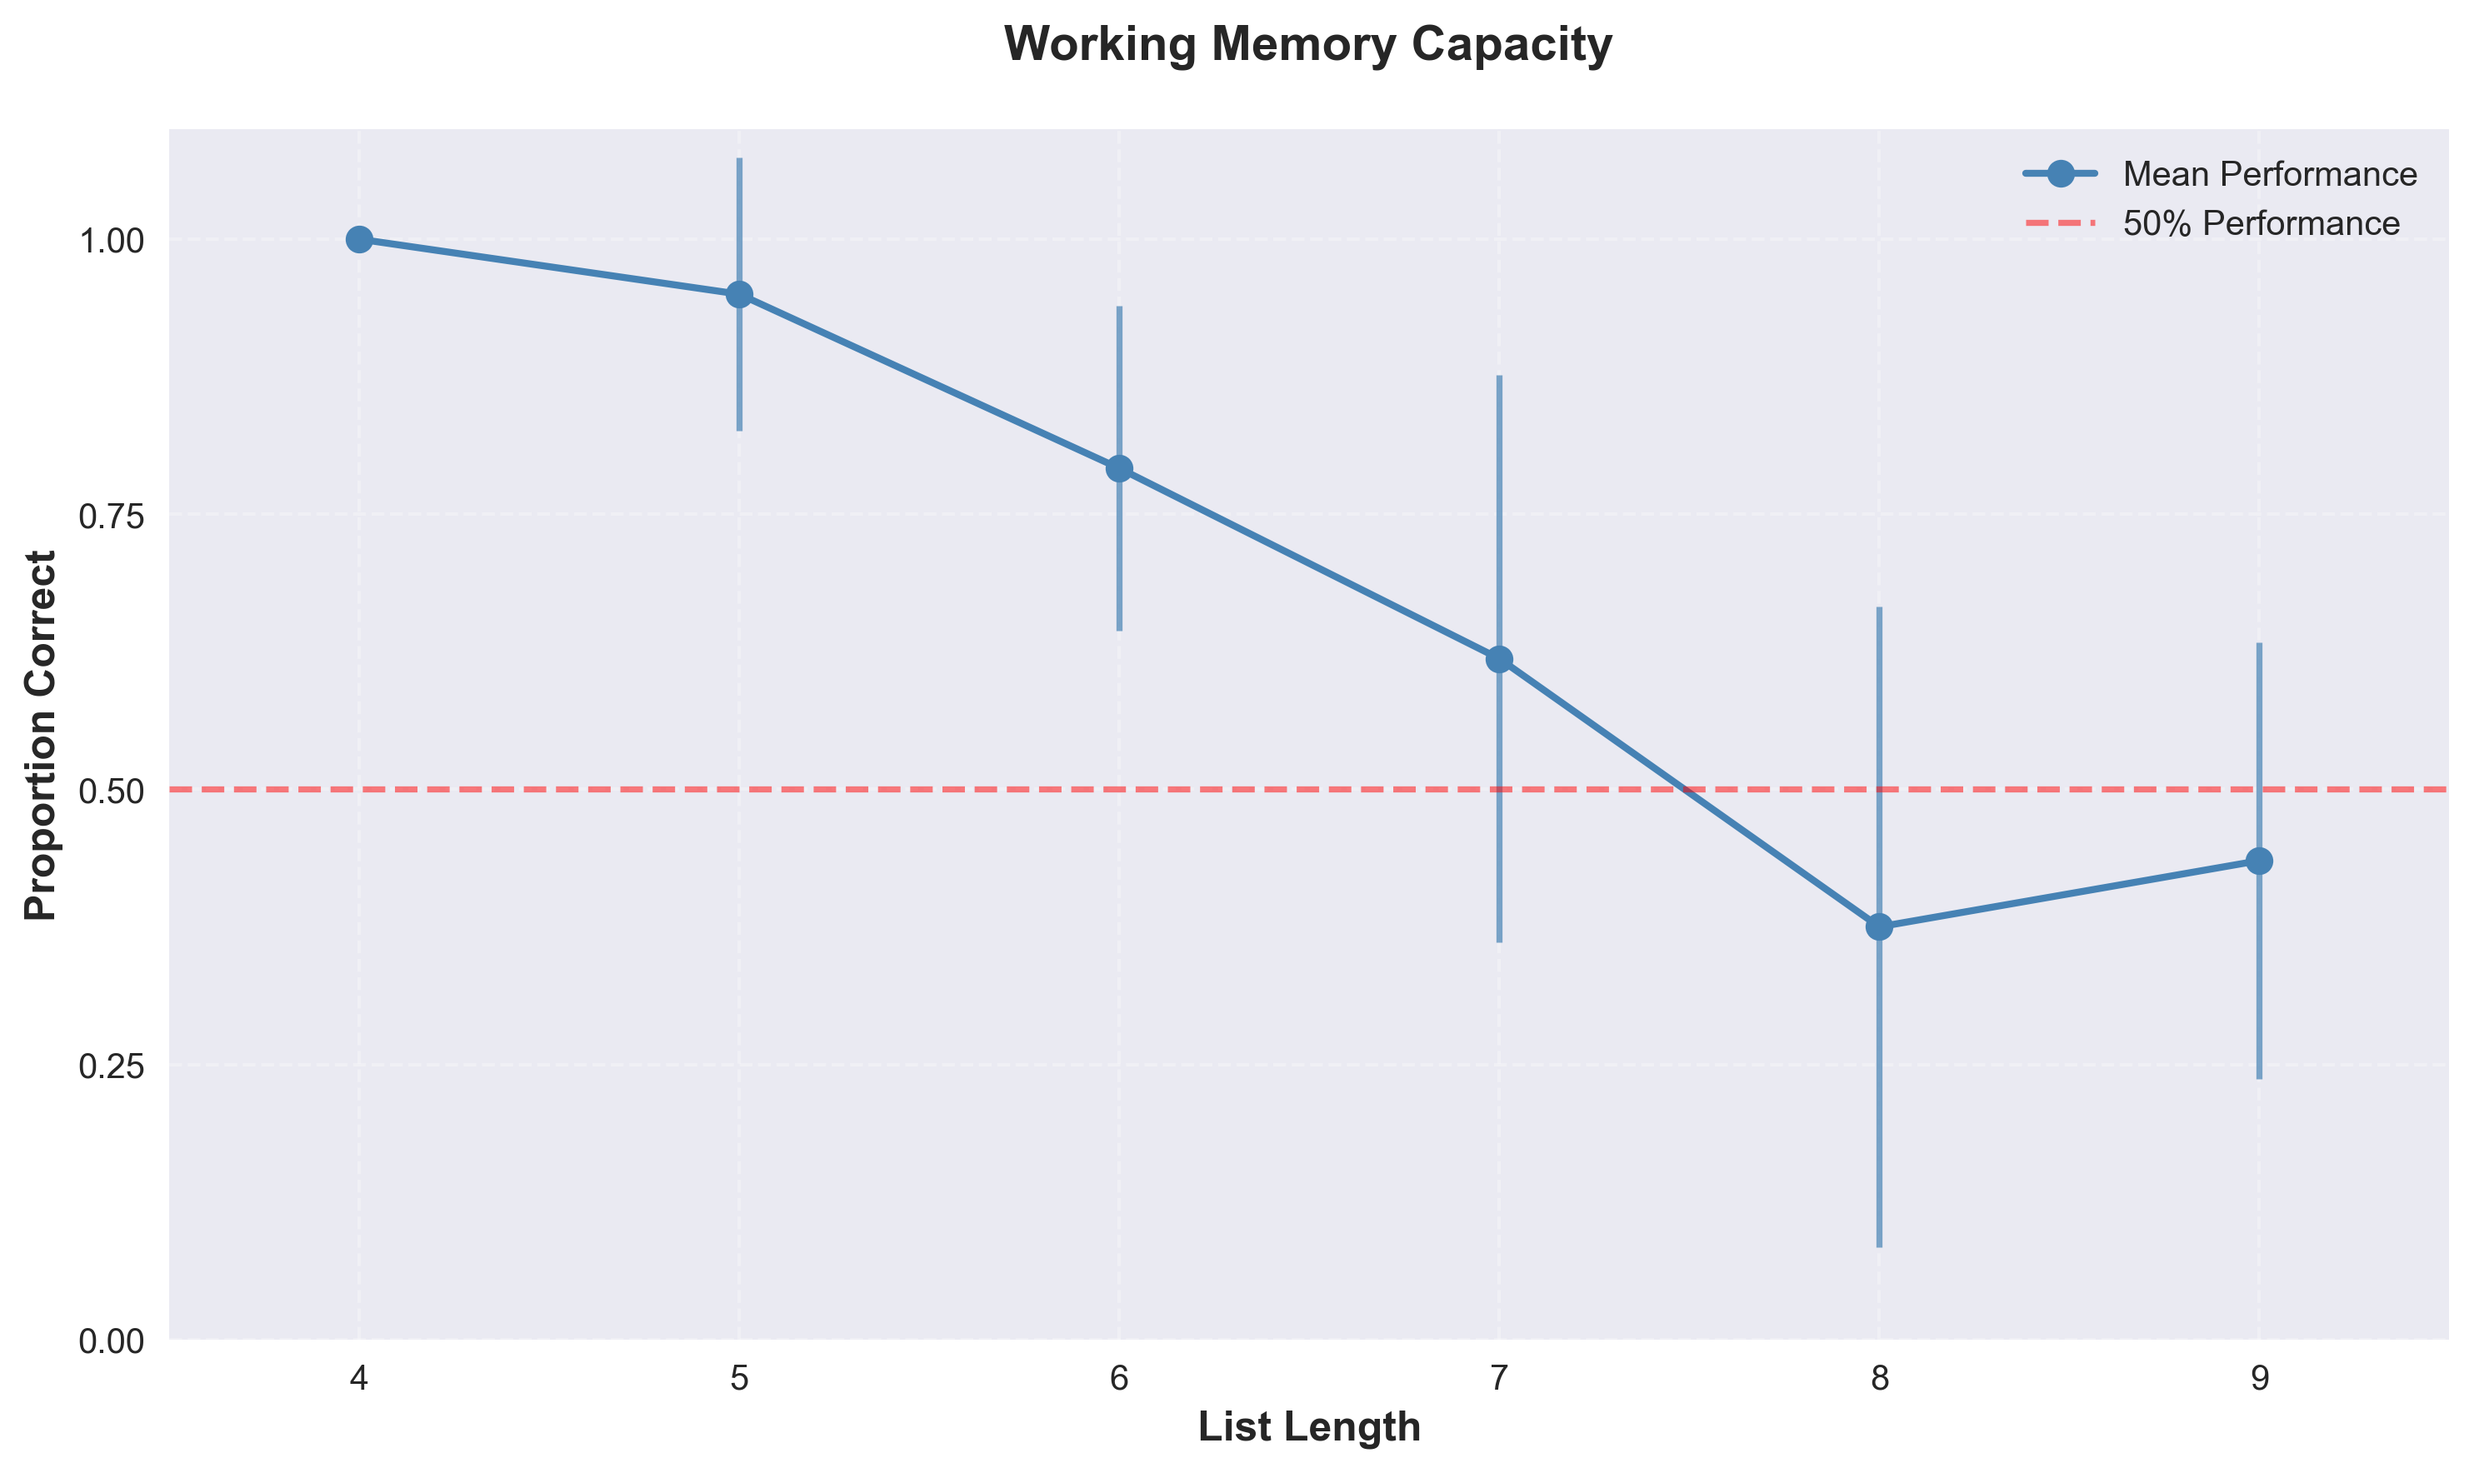
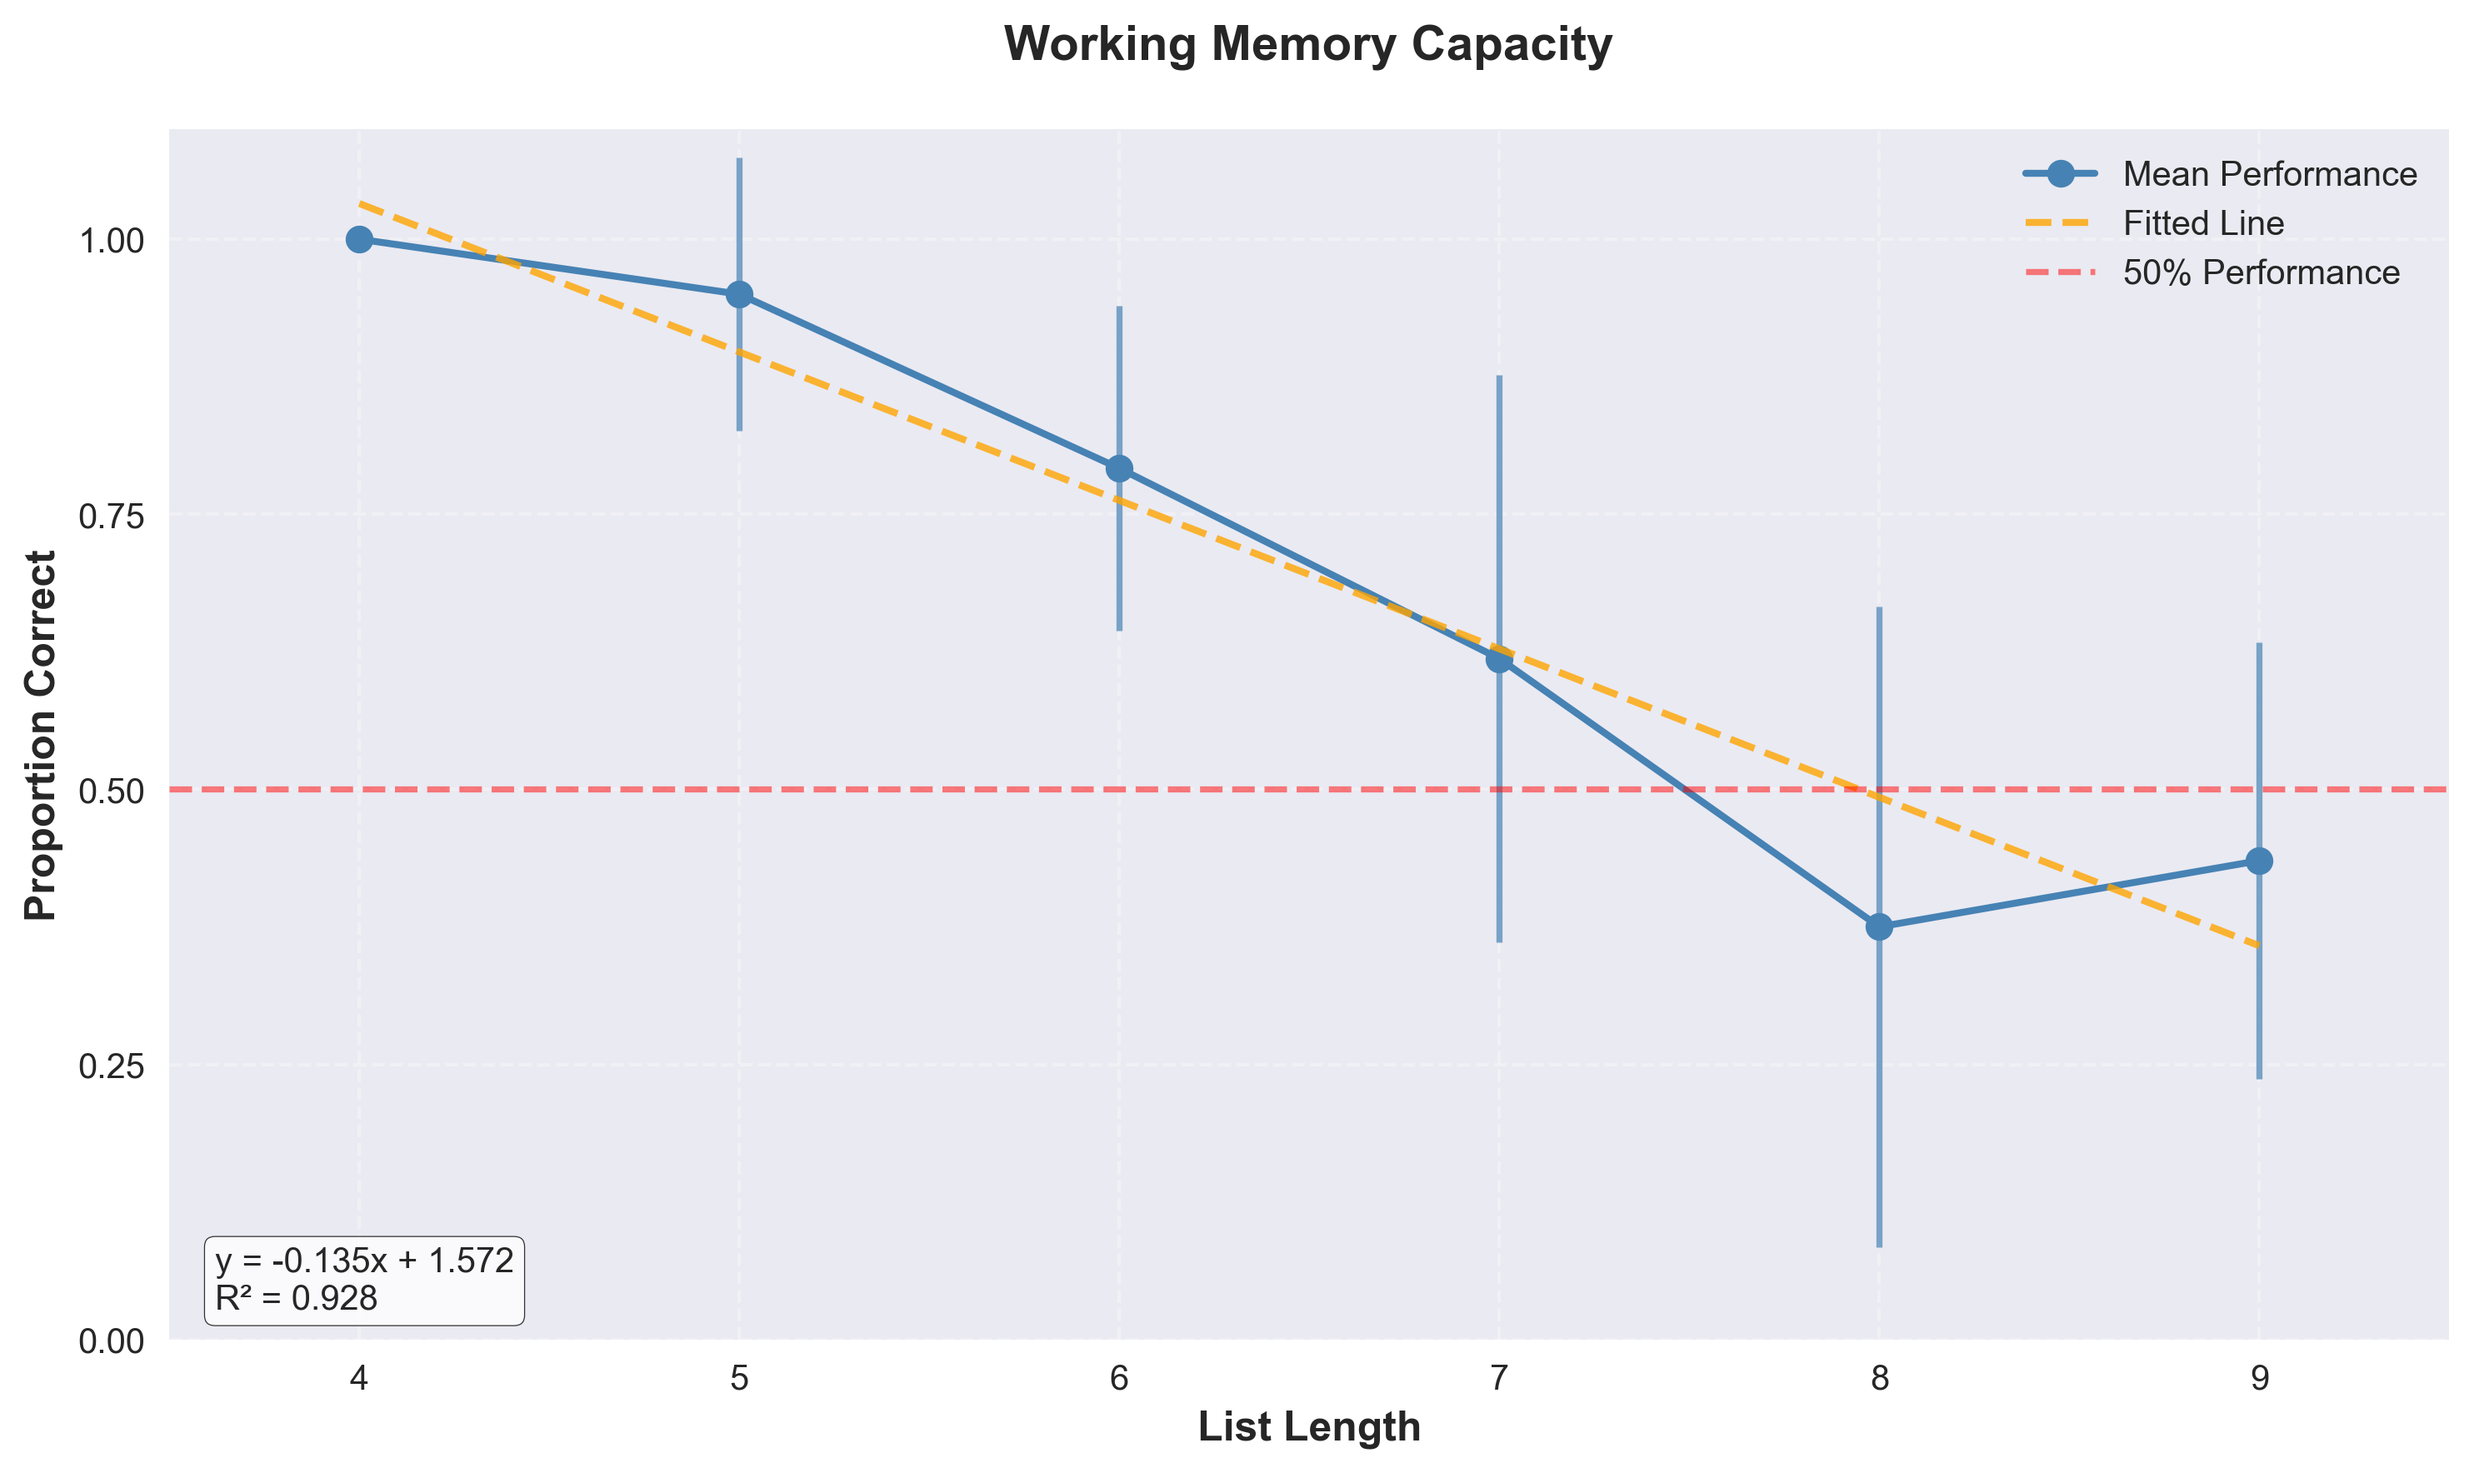
fitted a line to the memory capacity graph

diff --git a/scripts/analyze_experiment_results_serial_recall.py b/scripts/analyze_experiment_results_serial_recall.py
@@ -64,6 +64,32 @@ def create_working_memory_capacity_plot(data, images_dir):
     plt.errorbar(performance_by_length['list_length'], performance_by_length['mean'], 
                 yerr=performance_by_length['std'], fmt='none', color='steelblue', alpha=0.7)
     
+    # Fit a linear line through the points
+    from numpy import polyfit, poly1d
+    import numpy as np
+    
+    # Fit a 1st degree polynomial (linear) to the data
+    z = np.polyfit(performance_by_length['list_length'], performance_by_length['mean'], 1)
+    p = np.poly1d(z)
+    
+    # Create smooth line for the fitted curve
+    x_smooth = np.linspace(performance_by_length['list_length'].min(), 
+                          performance_by_length['list_length'].max(), 100)
+    y_smooth = p(x_smooth)
+    
+    # Plot the fitted line
+    plt.plot(x_smooth, y_smooth, '--', color='orange', linewidth=2, alpha=0.8, label='Fitted Line')
+    
+    # Calculate R² (coefficient of determination)
+    y_pred = p(performance_by_length['list_length'])
+    y_actual = performance_by_length['mean']
+    ss_res = np.sum((y_actual - y_pred) ** 2)
+    ss_tot = np.sum((y_actual - np.mean(y_actual)) ** 2)
+    r_squared = 1 - (ss_res / ss_tot)
+    
+    # Create equation string for the legend
+    equation_text = f'y = {z[0]:.3f}x + {z[1]:.3f}\nR² = {r_squared:.3f}'
+    
     # Add grid
     plt.grid(True, alpha=0.3, linestyle='--')
     
@@ -80,6 +106,11 @@ def create_working_memory_capacity_plot(data, images_dir):
     
     # Add horizontal line at 0.5 for reference
     plt.axhline(y=0.5, color='red', linestyle='--', alpha=0.5, label='50% Performance')
+    
+    # Add equation text in bottom left
+    plt.text(0.02, 0.02, equation_text, transform=plt.gca().transAxes, 
+             fontsize=10, bbox=dict(boxstyle="round,pad=0.3", facecolor="white", alpha=0.8),
+             verticalalignment='bottom')
     
     plt.legend()
     plt.tight_layout()
